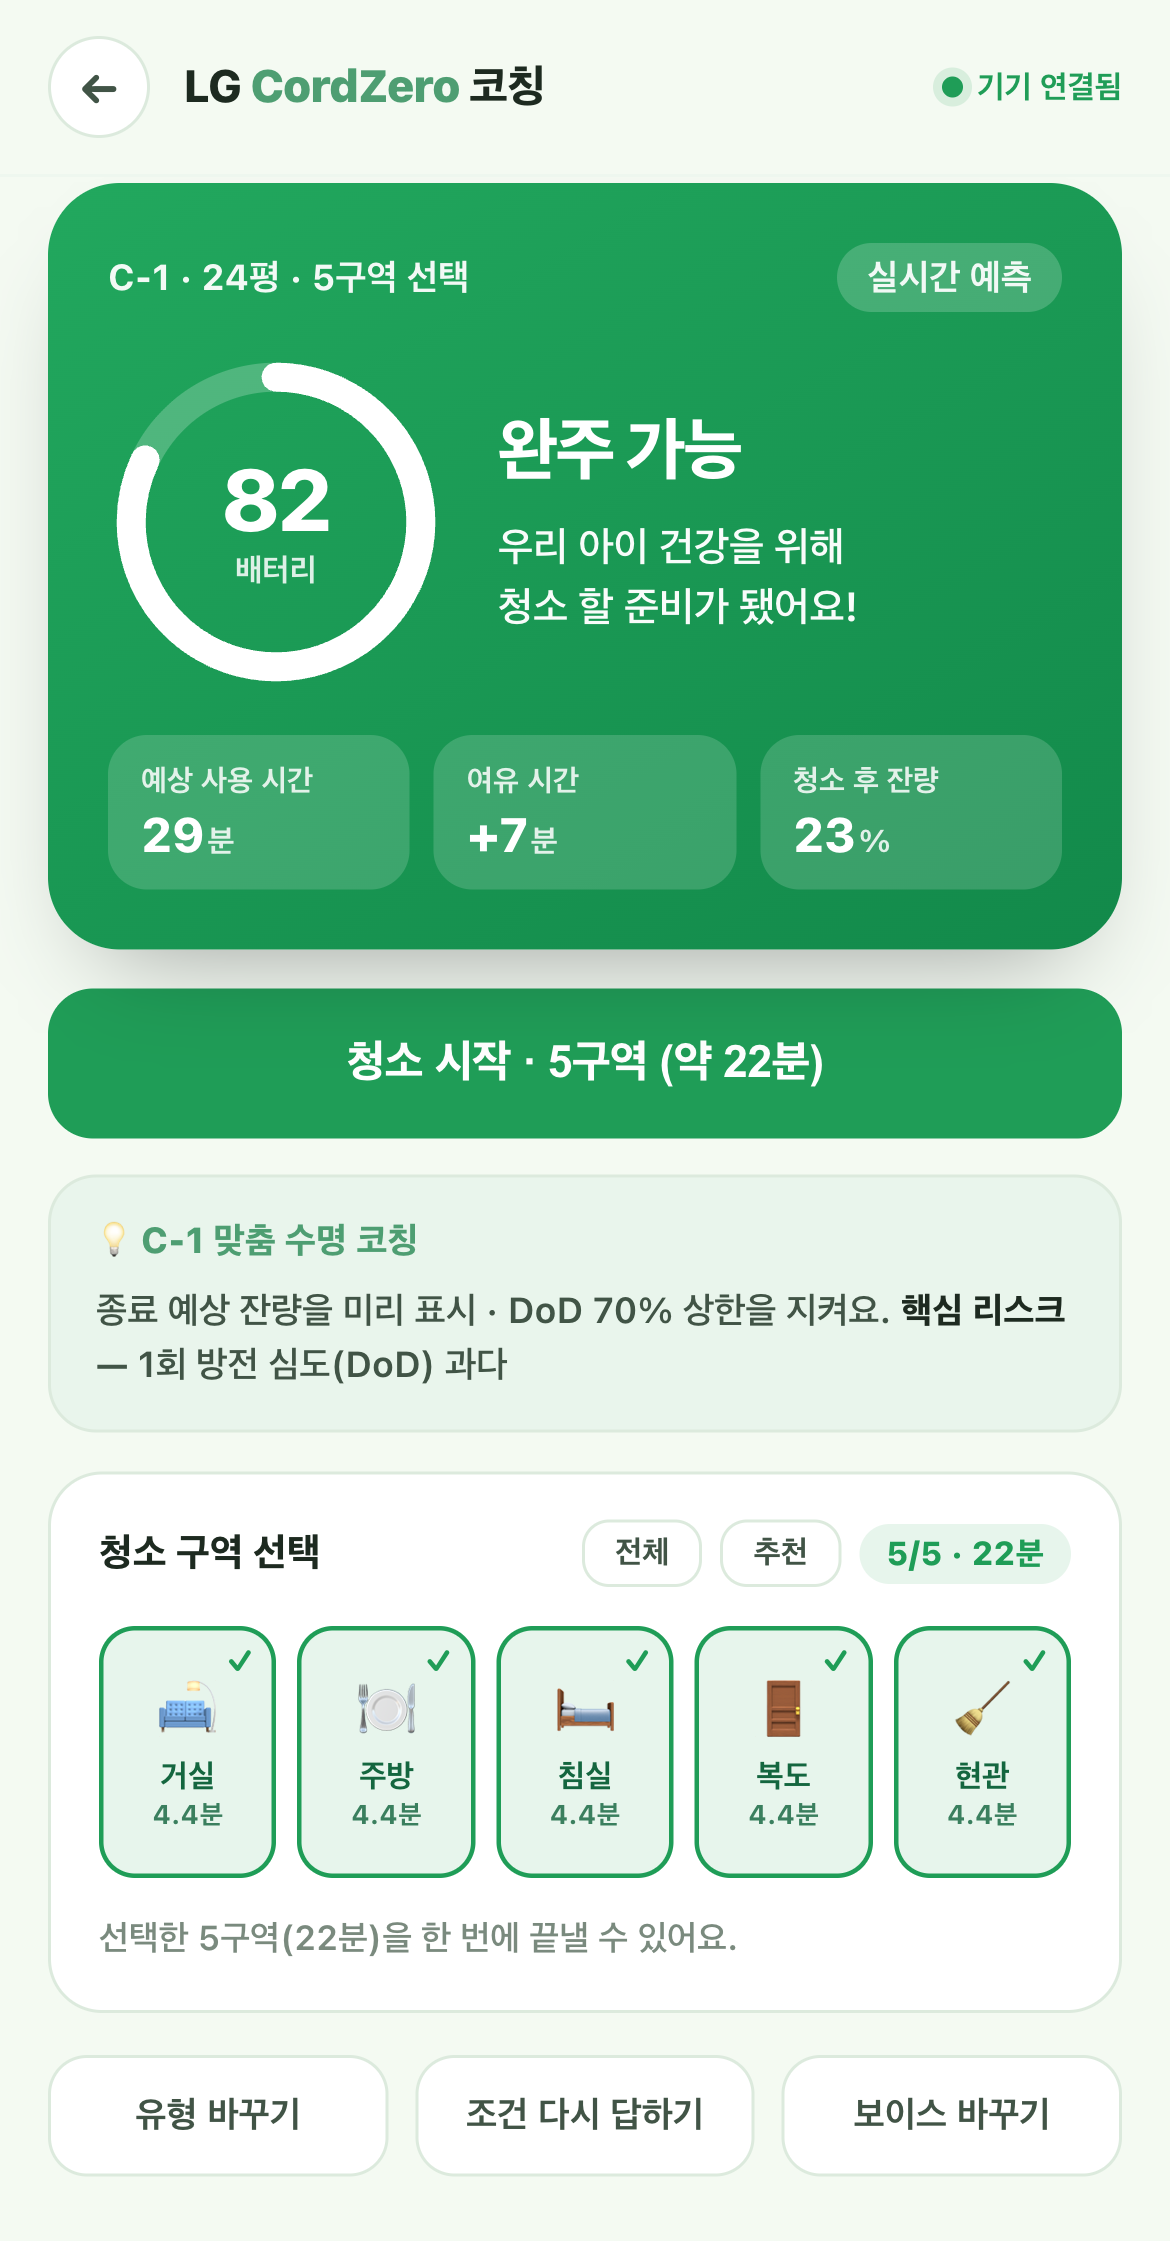
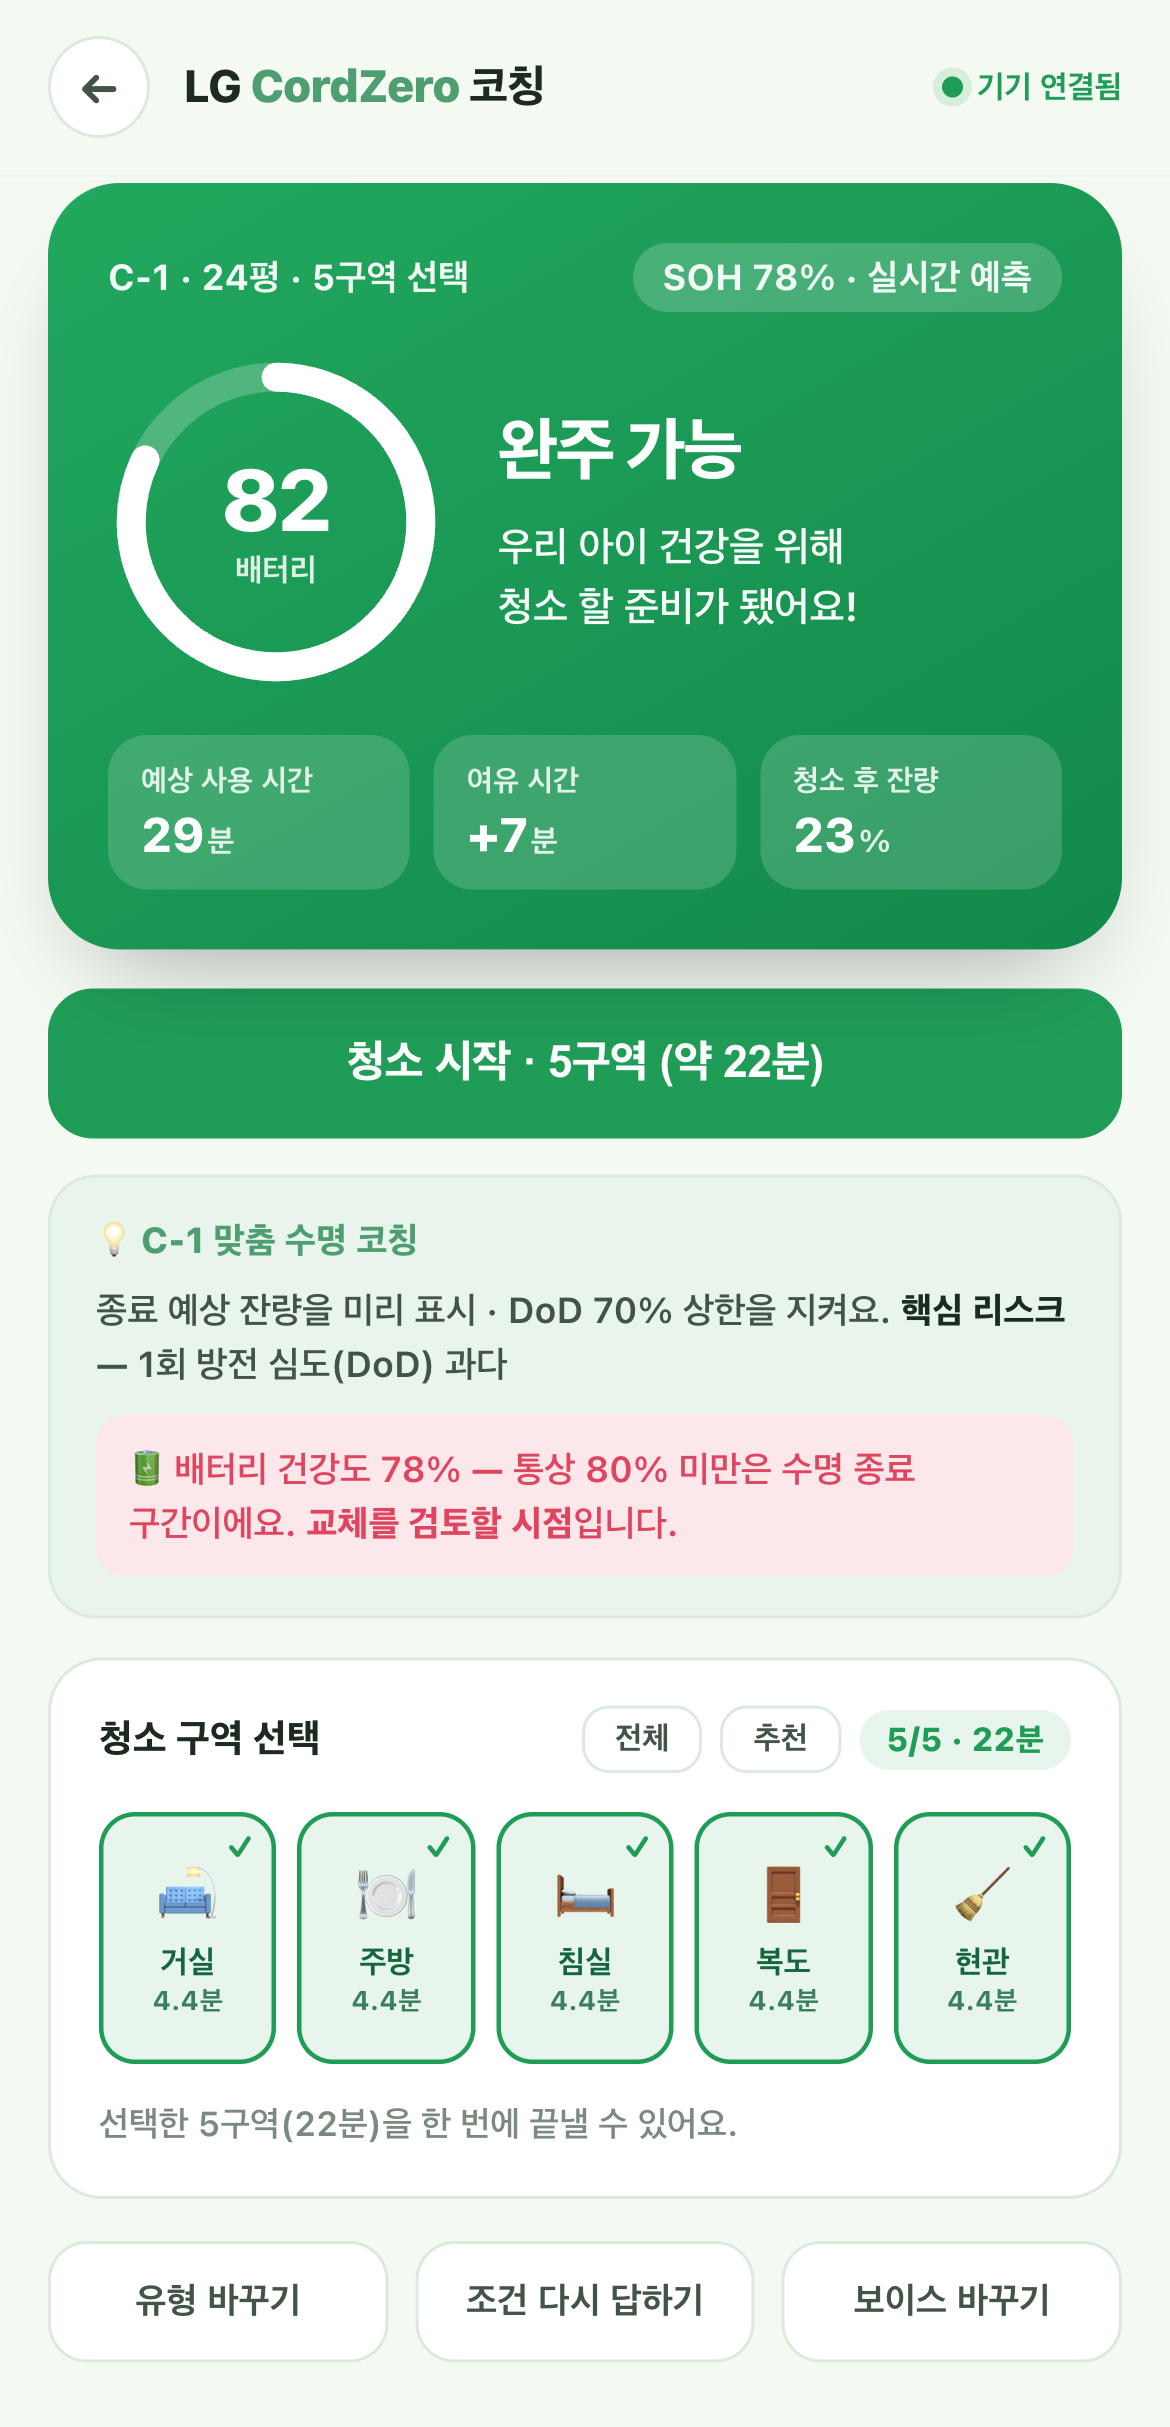
코칭 화면에 SOH 노출 — 배지와 교체 검토 안내
발표에서 "SOH 80% 미만이면 교체 시점을 안내한다"고 말하는데
실제 화면에는 SOH가 데모 시트에만 있었다. 제품 UI에 반영한다.

- 코칭 히어로 배지에 SOH 표시 (신품 100%일 땐 기존 그대로)
- 수명 코칭 카드에 SOH 80% 미만 시 교체 검토 안내를 추가
- SOH 65%에선 가용 시간 감소로 판정까지 뒤집히는 것 확인
- 발표 캡처(14_soh_low) 재생성 — 배지·경고가 화면에 보인다

diff --git a/app.html b/app.html
@@ -278,6 +278,8 @@ h1{font-size:19px;font-weight:800;letter-spacing:-.03em}h1 b{color:var(--lg)}
 .coach .ch{font-size:12px;font-weight:800;color:var(--lg);display:flex;align-items:center;gap:7px}
 .coach .cb{font-size:12px;font-weight:600;line-height:1.5;margin-top:6px;color:var(--ink2)}
 .coach .cb b{color:var(--ink);font-weight:800}
+.coach .sohwarn{margin-top:8px;padding:9px 11px;border-radius:10px;background:var(--rs);color:var(--r)}
+.coach .sohwarn b{color:var(--r)}
 
 .opfoot{display:flex;gap:9px;margin-top:14px}
 .opfoot button{flex:1;border:1px solid var(--line);background:var(--card);border-radius:13px;padding:12px 6px;font-size:12px;font-weight:700;color:var(--ink2);cursor:pointer}
@@ -1094,7 +1096,7 @@ function draw(){
  }else{
   const line=p.msg[c.mi].replace('{n}',josa(p.name)).replace(/^,\s*/,'');
   heroHTML=`<div class="hero" style="background:${GRAD[c.ci]}">
-   <div class="htop"><span>${mid()} · ${W.area}평 · ${c.n}구역 선택</span><span class="badge">실시간 예측</span></div>
+   <div class="htop"><span>${mid()} · ${W.area}평 · ${c.n}구역 선택</span><span class="badge">${SOH<100?`SOH ${SOH}% · `:''}실시간 예측</span></div>
    <div class="ringrow">
      <div class="ring">${ringSVG(SOC)}<div class="pc"><b>${SOC.toFixed(0)}</b><span>배터리</span></div></div>
      <div class="hmsg"><div class="vd">${LBL[c.state]}</div><div class="ln">${line}</div></div>
@@ -1138,7 +1140,8 @@ function draw(){
 
  /* ── 수명 코칭 (핵심 주제 — CTA 바로 아래) ── */
  setH('op-coach',`<div class="coach"><div class="ch">💡 ${mid()} 맞춤 수명 코칭</div>
-   <div class="cb">${M[mid()].coach}. <b>핵심 리스크</b> — ${M[mid()].risk}</div></div>`);
+   <div class="cb">${M[mid()].coach}. <b>핵심 리스크</b> — ${M[mid()].risk}</div>
+   ${SOH<80?`<div class="cb sohwarn">🔋 배터리 건강도 ${SOH}% — 통상 80% 미만은 수명 종료 구간이에요. <b>교체를 검토할 시점</b>입니다.</div>`:''}</div>`);
 
  /* ── 구역 선택/진행 ── */
  const lock=phase!=='idle'&&phase!=='done';
